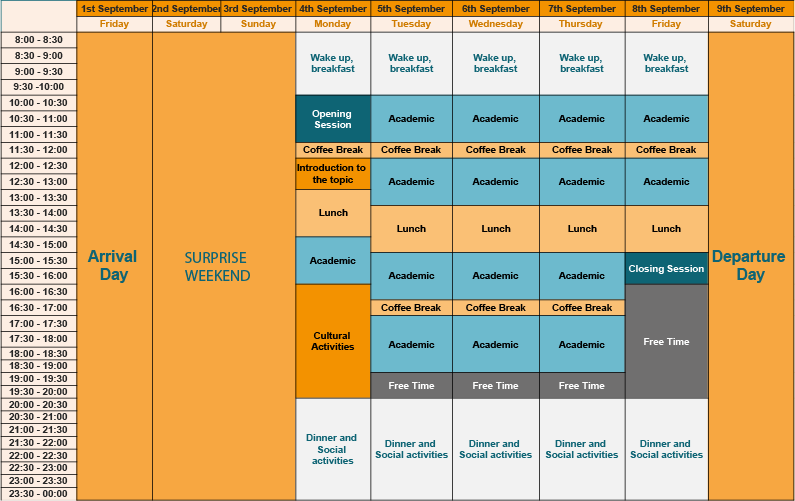
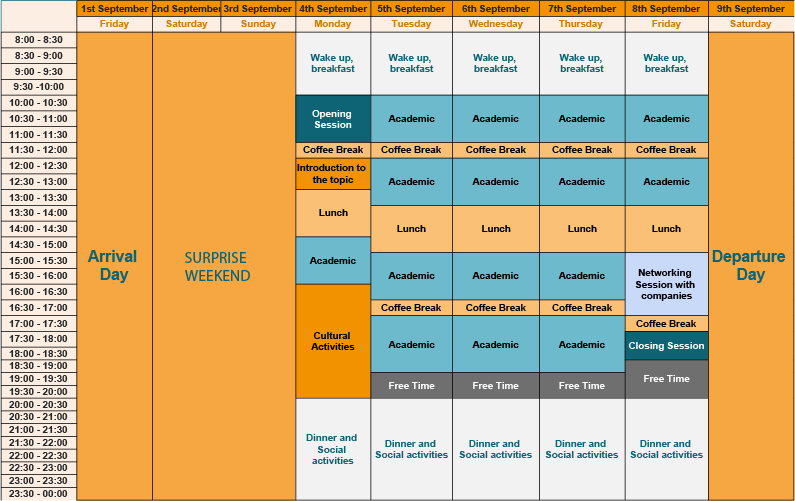
Course Section: - Schedule changed;
BEST Aveiro Section:
- Maximum heigth defined to the images.

diff --git a/index.html b/index.html
@@ -269,8 +269,8 @@
             </ol>
 
             <!-- Wrapper for slides -->
-            <div class="carousel-inner">
-                <div class="item active">
+            <div class="carousel-inner bestAveiroImages">
+                <div class="item active  ">
                     <img src="img/bestaveiro/best_aveiro_1.jpg" alt="">
                 </div>
 

diff --git a/css/Valente.css b/css/Valente.css
@@ -153,3 +153,8 @@
 
     margin-top: 40px;
 }
+
+.bestAveiroImages {
+    max-height: 300px;
+    /*height: auto;*/
+}
